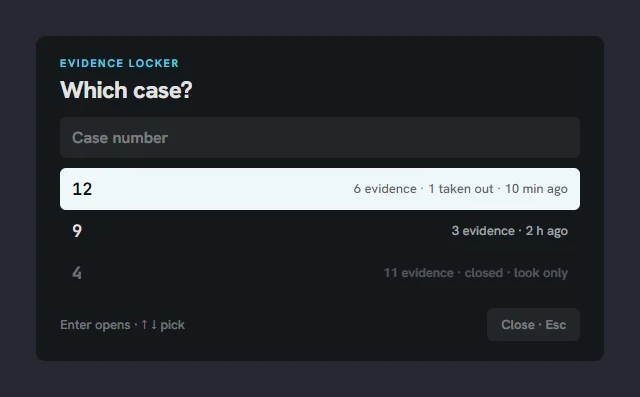
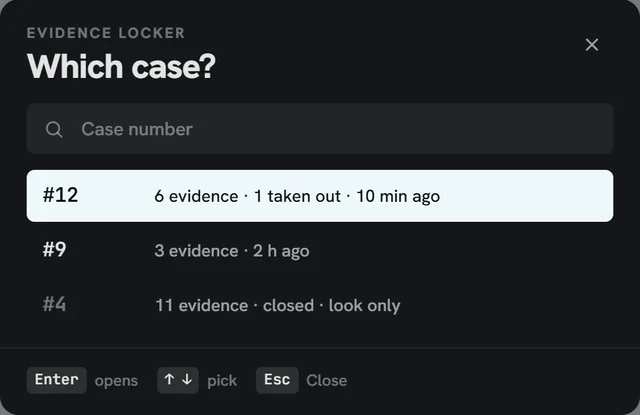
docs: evidence pictures of the kit-built screens, with the lab and scene scan

diff --git a/README.md b/README.md
@@ -66,8 +66,12 @@ post-mortems and the case lockers.
 |---|---|
 | <img src="docs/img/evidence-photo.webp" width="400" alt="Crime scene photo"> | <img src="docs/img/evidence-postmortem.webp" width="400" alt="Post-mortem findings"> |
 | **Crime scene photo:** every trace in the picture and the chain of custody | **Post-mortem:** each hit where it landed, cause of death, range |
-| <img src="docs/img/evidence-cases.webp" width="400" alt="Case locker"> | |
-| **Case locker:** the investigation number is the locker | |
+| <img src="docs/img/evidence-lab.webp" width="400" alt="Lab monitor"> | <img src="docs/img/evidence-cases.webp" width="400" alt="Case locker"> |
+| **Lab monitor:** each bag in turn, the instrument at work, then the results | **Case locker:** the investigation number is the locker |
+
+<img src="docs/img/evidence-scan.webp" width="820" alt="Scanning a scene">
+
+**Scanning a scene:** a card over each trace in view, and the camera's list of everything in the picture.
 
 The fork's evidence items, one picture per kind of bag and per tool:
 
